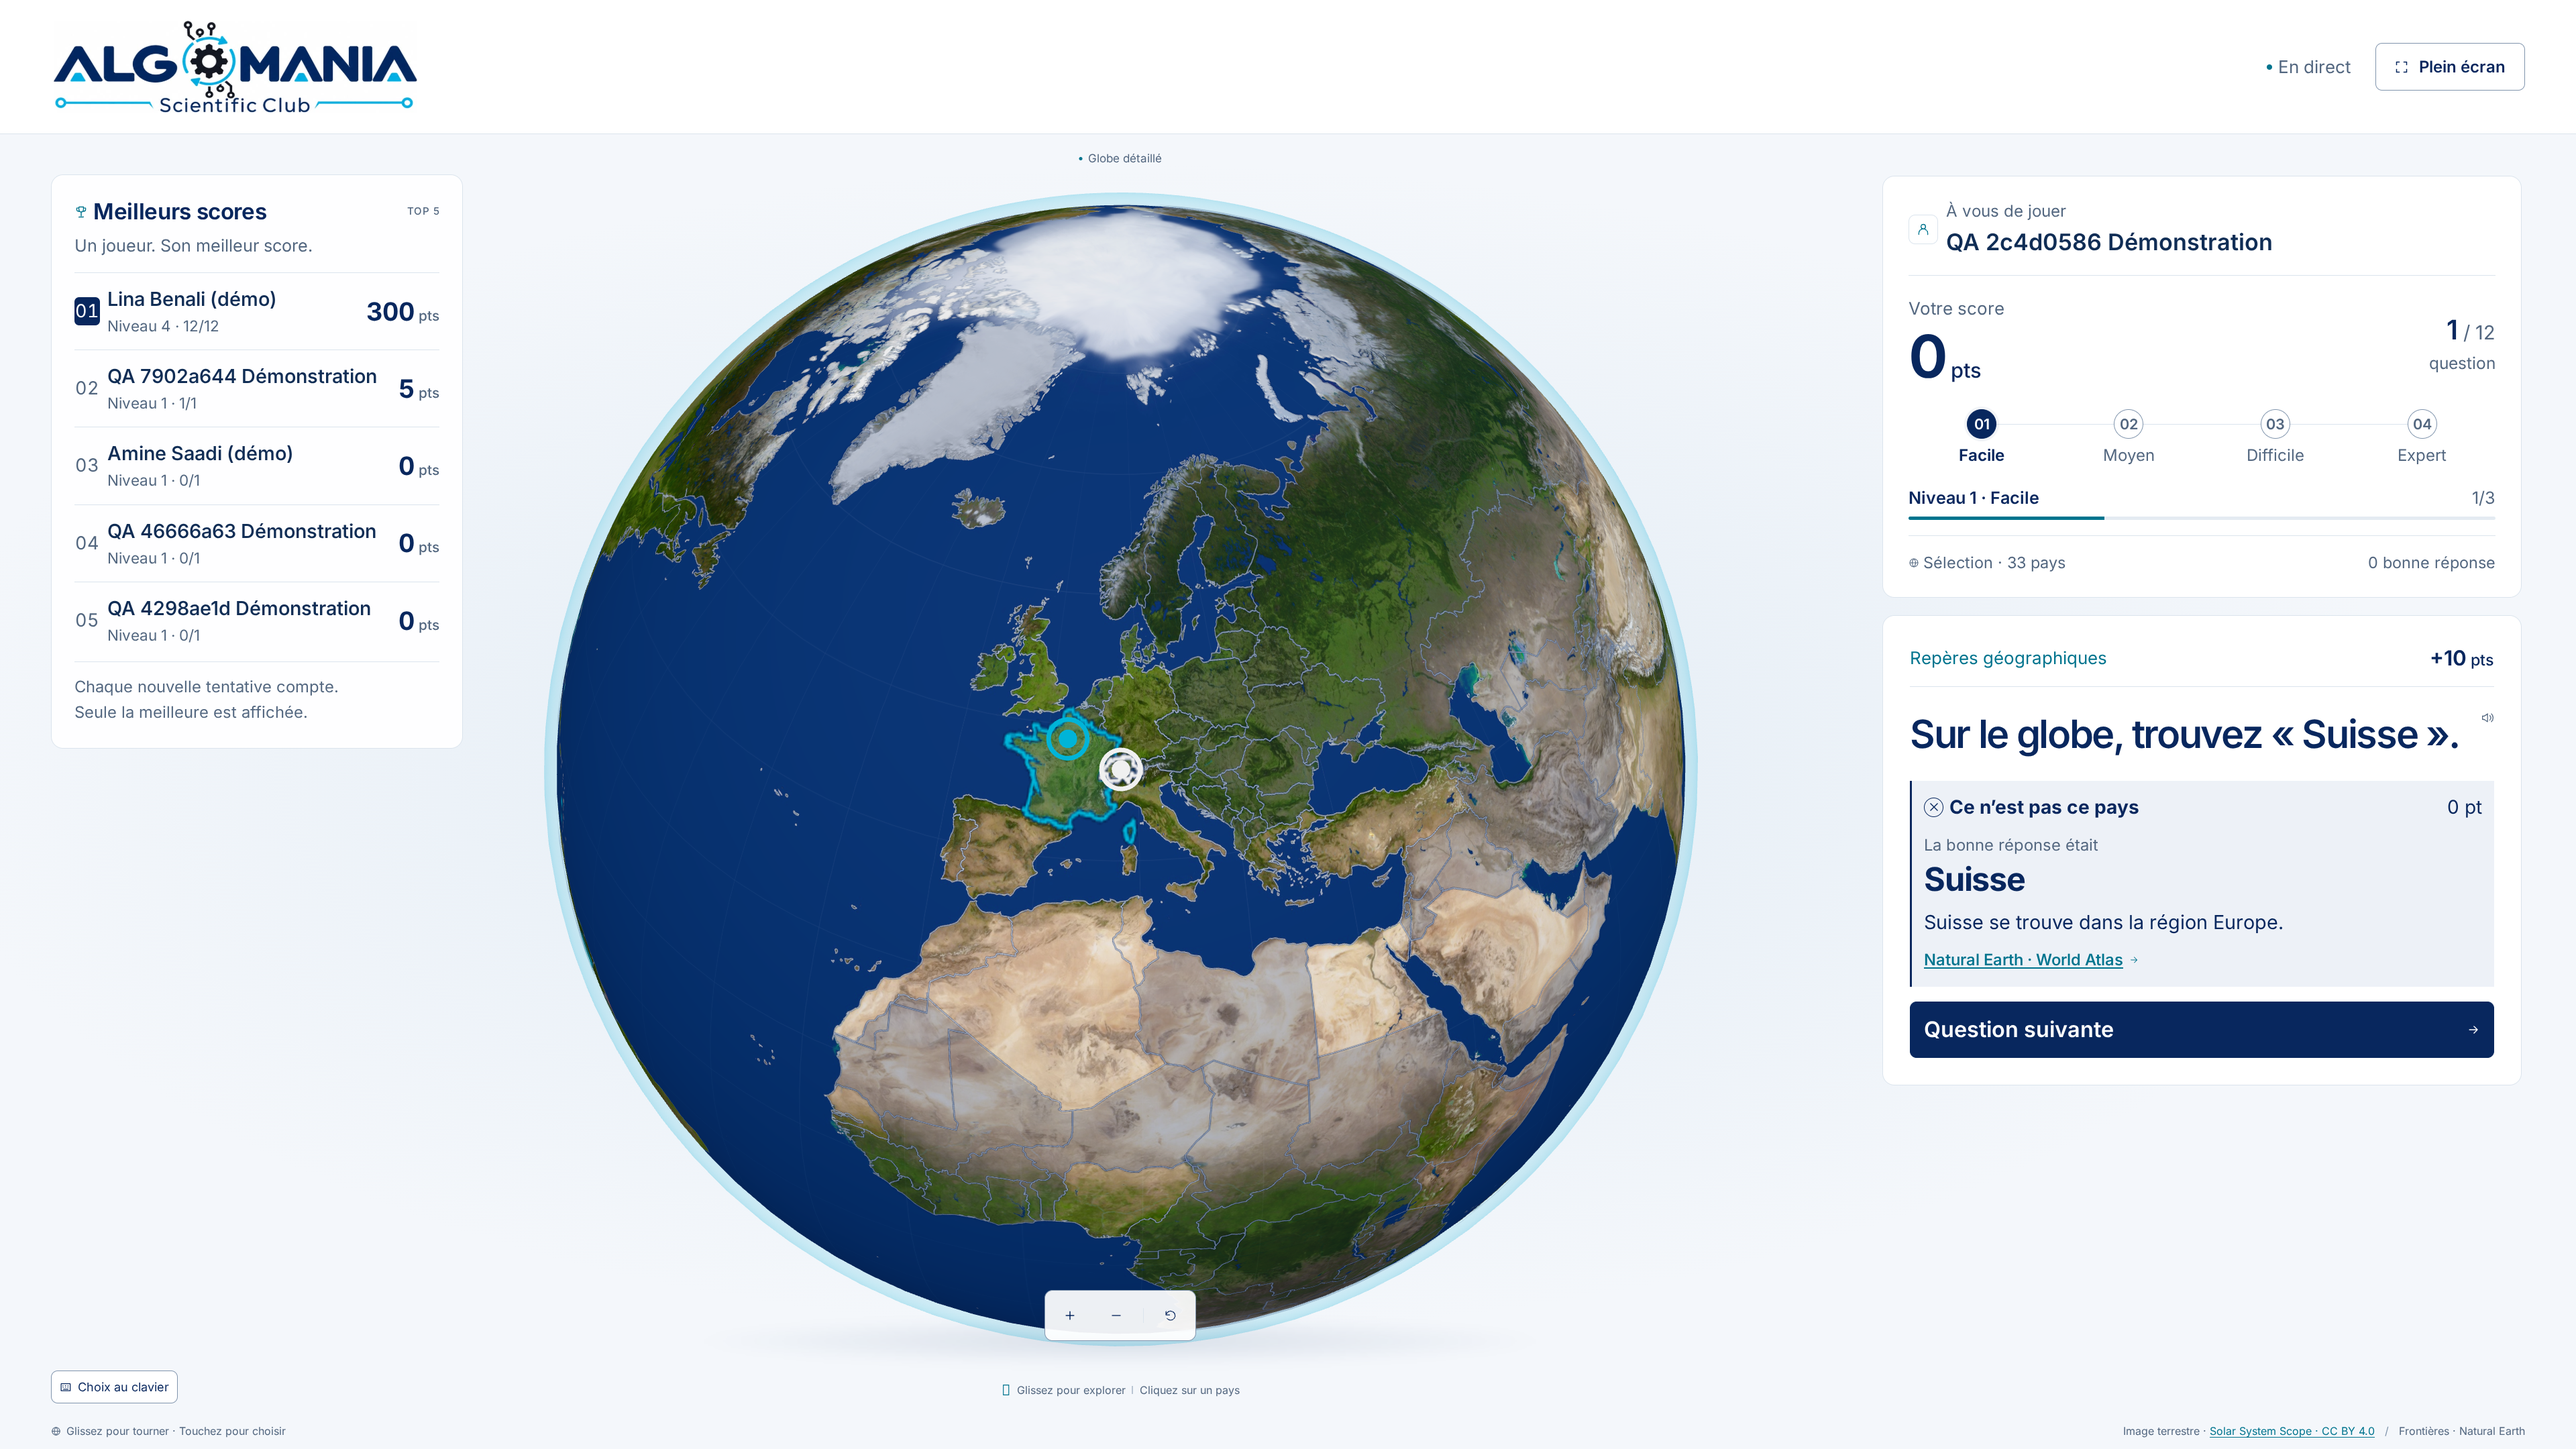
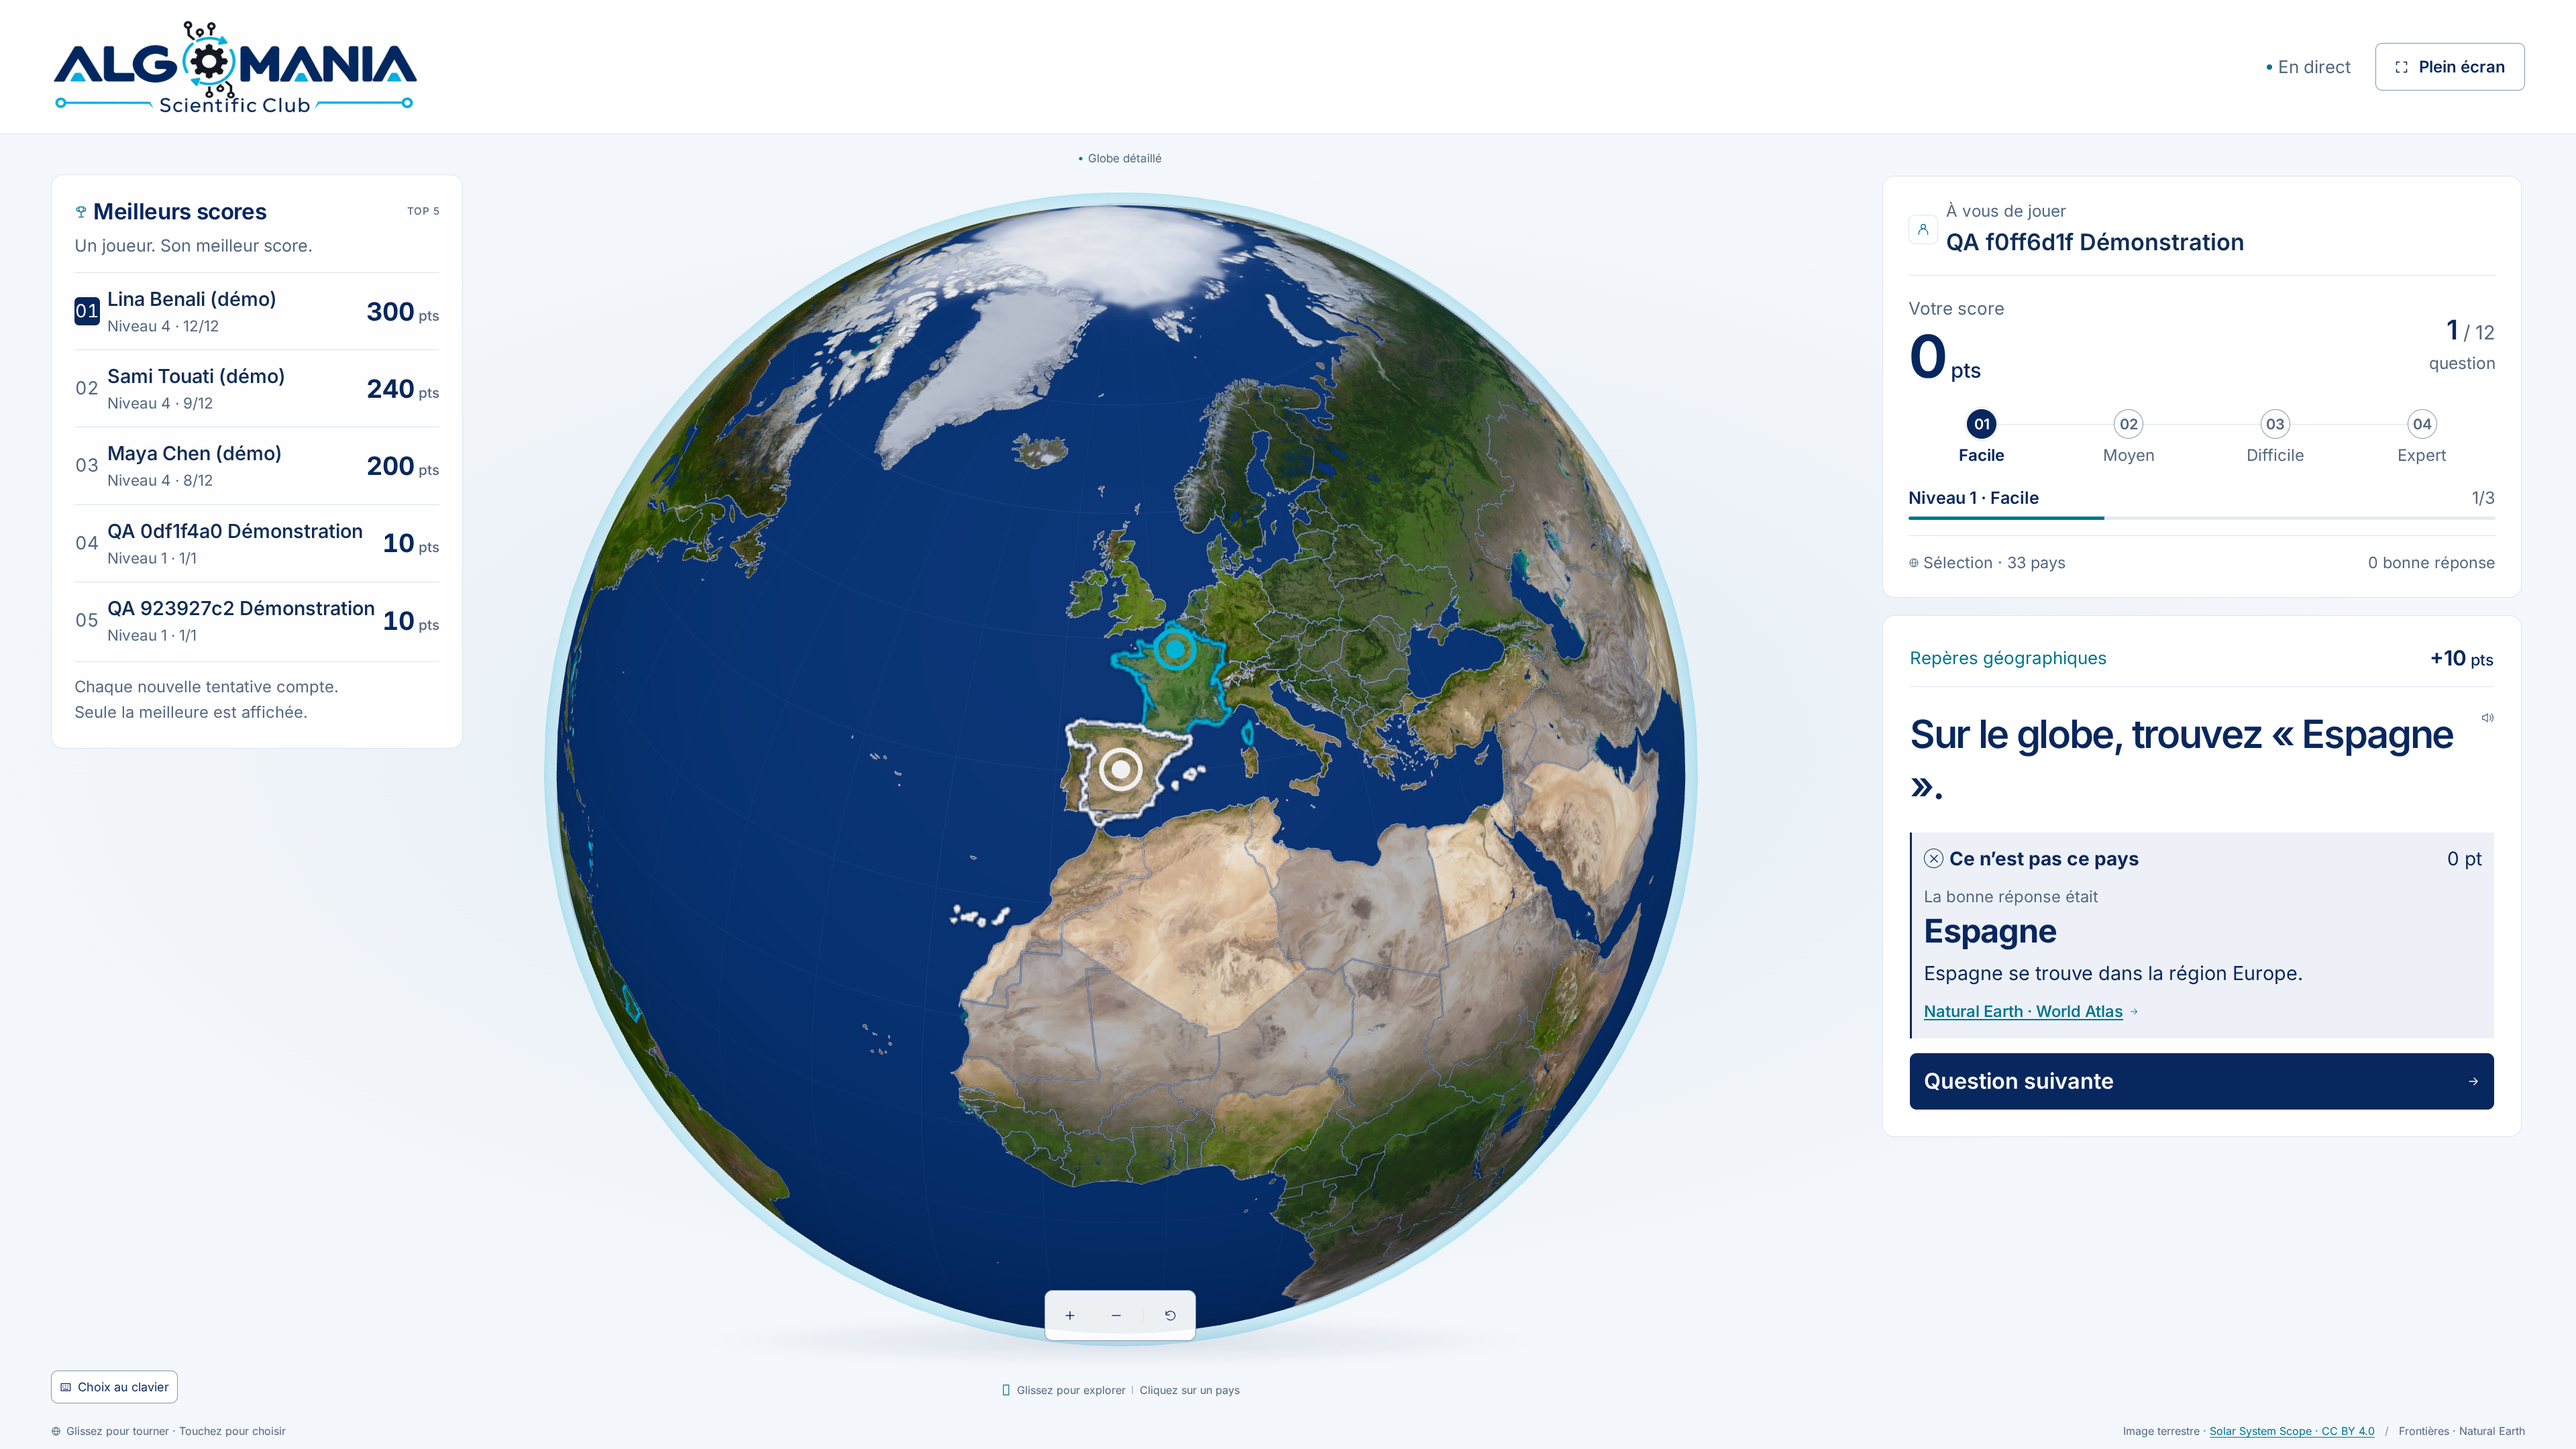
Fiabilise les transports temps réel et finalise la recette ALGOMANIA

diff --git a/tests/ui/stand.spec.ts b/tests/ui/stand.spec.ts
@@ -108,6 +108,44 @@ test('vrai globe : picking France, validation serveur, verdict et routes au zoom
   expect(requests.some((url) => /rivers|lakes/i.test(url))).toBe(false)
 })
 
+test('transport HTTP de secours : WebSocket bloqué, commandes et synchro conservées', async ({
+  page,
+  context,
+}) => {
+  // Faire échouer la poignée de main, pas fermer proprement un socket déjà
+  // ouvert : un proxy qui refuse WebSocket déclenche un événement error.
+  await page.addInitScript(() => {
+    window.WebSocket = new Proxy(window.WebSocket, {
+      construct(target, args) {
+        if (String(args[0]).includes('/socket.io')) {
+          const url = new URL(String(args[0]))
+          // Port fermé du même hôte de test : échec réseau asynchrone réel.
+          url.port = '65534'
+          return Reflect.construct(target, [url.toString(), ...args.slice(1)])
+        }
+        return Reflect.construct(target, args)
+      },
+    })
+  })
+  const polling: string[] = []
+  page.on('request', (request) => {
+    if (request.url().includes('transport=polling')) polling.push(request.url())
+  })
+  await openPlayer(page)
+  expect(polling.length).toBeGreaterThan(0)
+  const admin = await context.newPage()
+  await openAdmin(admin)
+  const before = await stateOf(page)
+  await admin.getByRole('button', { name: 'Remplacer la question', exact: true }).click()
+  await expect
+    .poll(async () => (await stateOf(page)).question!.turn)
+    .toBeGreaterThan(before.question!.turn)
+  await chooseCorrect(page, admin)
+  await page.getByRole('button', { name: 'Valider mon choix', exact: true }).click()
+  await expect(page.locator('.feedback-heading')).toContainText('Bonne réponse')
+  expect((await stateOf(page)).game!.answered).toBe(1)
+})
+
 test('WebGL absent : secours 2D réellement cliquable et validation conservée', async ({ page }) => {
   await page.addInitScript(() => {
     const original = HTMLCanvasElement.prototype.getContext

diff --git a/tests/ui/helpers.ts b/tests/ui/helpers.ts
@@ -11,8 +11,14 @@ export const uniqueName = () => `QA ${randomUUID().slice(0, 8)} Démonstration`
 export async function resetStand(baseURL: string) {
   const socket = await connect(baseURL)
   try {
-    const result = await claim(socket)
-    if (!result.ok) throw new Error(result.error)
+    // Fermer un contexte navigateur et libérer son socket serveur ne sont pas
+    // synchrones : attendre la libération, sans voler la capacité du pupitre.
+    await expect
+      .poll(async () => (await claim(socket)).ok, {
+        timeout: 15_000,
+        intervals: [100, 250, 500, 1000],
+      })
+      .toBe(true)
     const reset = await command(socket, { type: 'reset' })
     if (!reset.ok) throw new Error(reset.error)
     const settings = await command(socket, {
@@ -122,6 +128,15 @@ export async function savePreview(page: Page, name: string, fullPage = false) {
 export async function seedDemoScores(baseURL: string) {
   if (process.env.UI_BASE_URL)
     throw new Error('CAPTURE_DOCS exige le serveur UI temporaire, sans UI_BASE_URL.')
+  const existing = (await (await fetch(`${baseURL}/api/leaderboard`)).json()) as {
+    fullName: string
+  }[]
+  if (
+    ['Lina Benali (démo)', 'Sami Touati (démo)', 'Maya Chen (démo)'].every((name) =>
+      existing.some((row) => row.fullName === name),
+    )
+  )
+    return
   const { response, snapshot, watch } = await import('../support/network.js')
   const admin = await connect(baseURL),
     player = await connect(baseURL)

diff --git a/frontend/src/hooks/useStandConnection.ts b/frontend/src/hooks/useStandConnection.ts
@@ -19,7 +19,10 @@ export function useStandConnection(role: Role) {
     const socket: StandSocket = io({
       autoConnect: false,
       addTrailingSlash: false,
-      transports: ['polling', 'websocket'],
+      // WebSocket direct évite de suspendre les commandes pendant une montée
+      // polling → WebSocket derrière le proxy ; HTTP reste un vrai secours.
+      transports: ['websocket', 'polling'],
+      tryAllTransports: true,
     })
     socketRef.current = socket
     const apply = (next: StandState) => {

diff --git a/README.md b/README.md
@@ -43,7 +43,7 @@ Deux processus distincts sont lancés :
 
 Sur un deuxième appareil, utiliser **l’IP du PC serveur**, par exemple `http://192.168.1.20:3000/jouer`, pas `localhost`. Les appareils doivent partager le même réseau et le pare-feu doit autoriser le port 3000. Aucun service Internet n’est nécessaire pendant le jeu : cartes, images, polices, questions et faits sont locaux. Les liens de références restent facultatifs et nécessitent Internet.
 
-Les requêtes du navigateur utilisent uniquement l’origine du frontend. Next relaie `/api/*` et `/socket.io` vers Express ; ne pas ajouter d’URL `localhost:4000` dans le code navigateur. Le backend n’a pas besoin d’être exposé aux visiteurs.
+Les requêtes du navigateur utilisent uniquement l’origine du frontend. Next relaie `/api/*` et `/socket.io` vers Express ; ne pas ajouter d’URL `localhost:4000` dans le code navigateur. Le backend n’a pas besoin d’être exposé aux visiteurs. Le client ouvre WebSocket directement et conserve le polling HTTP comme secours si la négociation WebSocket échoue, sans suspendre les commandes pendant une montée de transport.
 
 ## Veille et parcours visiteur
 
@@ -184,6 +184,16 @@ npm run test:ui
 ```
 
 **Les tests UI utilisent leurs propres ports 3100/4100, des JSON temporaires et `frontend/.next-ui`.** Ils ne réutilisent pas automatiquement le serveur du stand et ne modifient pas ses visiteurs. `UI_BASE_URL` permet de cibler explicitement un serveur de **test** déjà isolé, jamais le stand réel. Les vérifications automatiques ne remplacent pas une recette tactile sur le 43 pouces.
+
+Pour renouveler les six captures du README avec des scores **fictifs**, utiliser le serveur UI temporaire (ne pas définir `UI_BASE_URL`) :
+
+```powershell
+$env:CAPTURE_DOCS = "1"
+npm run test:ui
+Remove-Item Env:\CAPTURE_DOCS
+```
+
+Cette option crée trois profils de démonstration uniquement dans les JSON temporaires et remplace les images de `docs/apercus/`. Elle ne modifie pas les visiteurs du stand.
 
 ### Windows / PowerShell 5.1
 
